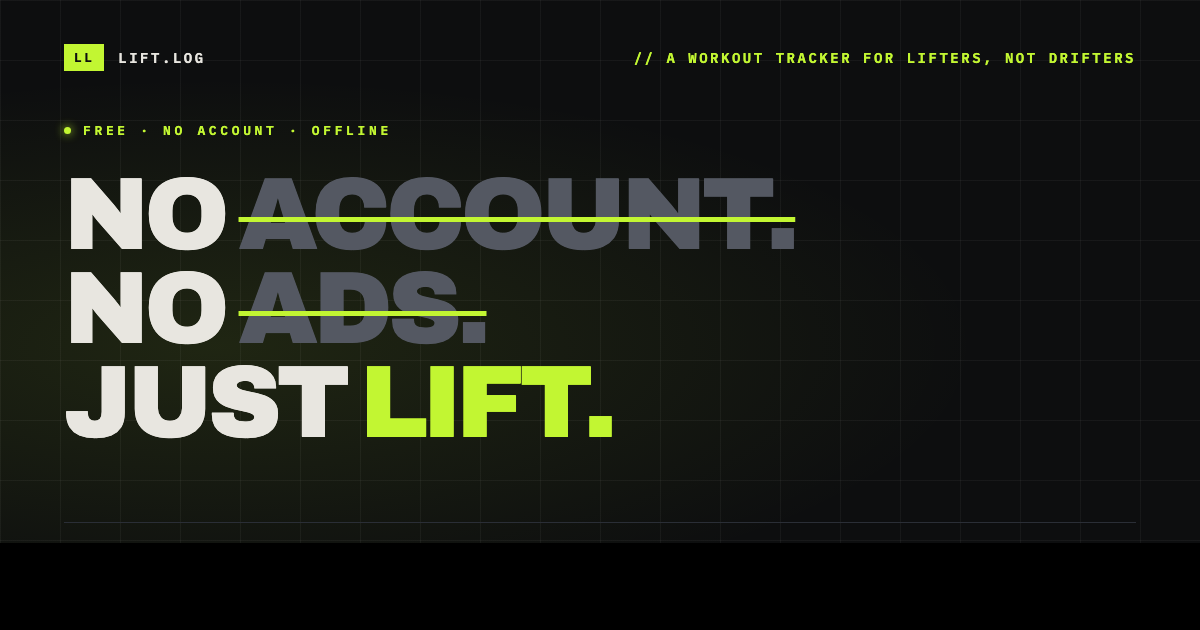
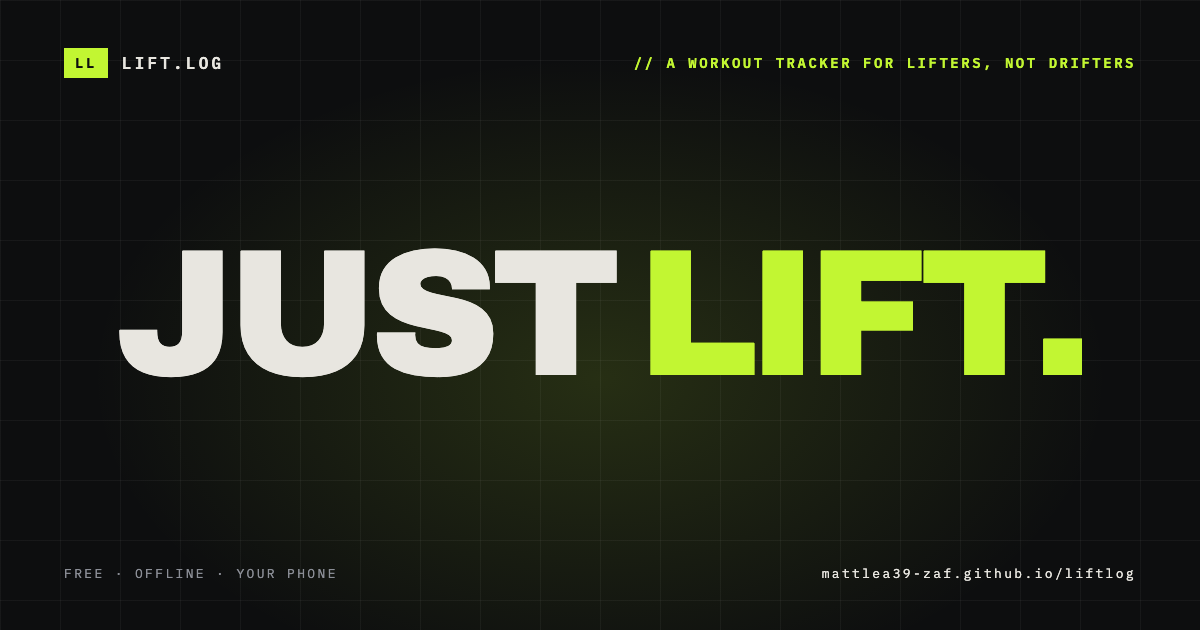
OG share card now matches the "Just lift." landing
Rewrote og.html: drops the NO ACCOUNT / NO ADS strike lines and the
chips row (referenced accounts/ads). Hero is now a single huge
"JUST LIFT." centered on a lime-glow grid, mirroring the landing.
Footer carries "FREE · OFFLINE · YOUR PHONE" + the URL.

Re-rendered og.png at 1200x630 via headless Chrome.

Updated og:title to "Lift.Log — Just lift." and og:description to
match. og:image and twitter:image now point to og.png?v=2 so
WhatsApp / Twitter / iMessage re-fetch the image instead of serving
their cached old card.

diff --git a/og.html b/og.html
@@ -12,7 +12,6 @@
     --line: #2a2e36;
     --text: #e8e6e0;
     --text-dim: #8b8e96;
-    --text-faint: #545862;
     --signal: #c2f632;
     --grid: rgba(232, 230, 224, 0.05);
   }
@@ -26,7 +25,7 @@
     background-image:
       linear-gradient(var(--grid) 1px, transparent 1px),
       linear-gradient(90deg, var(--grid) 1px, transparent 1px),
-      radial-gradient(ellipse at 18% 55%, rgba(194, 246, 50, 0.10), transparent 55%);
+      radial-gradient(ellipse at 50% 60%, rgba(194, 246, 50, 0.14), transparent 60%);
     background-size: 60px 60px, 60px 60px, 100% 100%;
     position: relative;
     overflow: hidden;
@@ -34,7 +33,7 @@
 
   .top {
     position: absolute;
-    top: 44px; left: 64px; right: 64px;
+    top: 48px; left: 64px; right: 64px;
     display: flex;
     justify-content: space-between;
     align-items: center;
@@ -46,83 +45,40 @@
   .badge {
     background: var(--signal);
     color: var(--bg);
-    padding: 5px 10px;
+    padding: 6px 11px;
     font-weight: 700;
-    font-size: 13px;
+    font-size: 14px;
     letter-spacing: 0.18em;
   }
-  .brand strong { color: var(--text); letter-spacing: 0.18em; font-weight: 600; }
+  .brand strong { color: var(--text); letter-spacing: 0.2em; font-weight: 600; font-size: 16px; }
   .top-right { color: var(--signal); font-weight: 600; }
-
-  .id {
-    position: absolute;
-    top: 122px; left: 64px;
-    font-size: 13px;
-    letter-spacing: 0.28em;
-    color: var(--signal);
-    font-weight: 600;
-    display: inline-flex;
-    align-items: center;
-    gap: 12px;
-  }
-  .id::before {
-    content: '';
-    width: 7px; height: 7px;
-    background: var(--signal);
-    border-radius: 50%;
-    box-shadow: 0 0 10px var(--signal);
-  }
 
   h1 {
     position: absolute;
-    top: 168px; left: 64px; right: 64px;
+    top: 50%;
+    left: 0; right: 0;
+    transform: translateY(-50%);
+    text-align: center;
     font-family: 'Archivo', sans-serif;
     font-weight: 900;
-    font-size: 102px;
-    line-height: 0.92;
+    font-size: 180px;
+    line-height: 0.9;
     letter-spacing: -0.045em;
     text-transform: uppercase;
   }
   h1 .signal { color: var(--signal); }
-  h1 .strike {
-    text-decoration: line-through;
-    text-decoration-color: var(--signal);
-    text-decoration-thickness: 5px;
-    color: var(--text-faint);
-  }
 
-  .chips {
+  .footer {
     position: absolute;
-    left: 64px; right: 64px; top: 522px;
+    bottom: 48px; left: 64px; right: 64px;
     display: flex;
-    gap: 32px;
+    justify-content: space-between;
     align-items: baseline;
-    border-top: 1px solid var(--line);
-    padding-top: 20px;
-    font-size: 13px;
-    letter-spacing: 0.15em;
-    text-transform: uppercase;
-  }
-  .chip { display: inline-flex; gap: 8px; align-items: baseline; }
-  .chip-key { color: var(--text-faint); font-size: 11px; }
-  .chip-val {
-    color: var(--signal);
-    font-family: 'Archivo', sans-serif;
-    font-weight: 800;
-    font-size: 16px;
-    letter-spacing: 0.04em;
-  }
-  .chip-val.strike {
-    text-decoration: line-through;
-    text-decoration-color: var(--text-faint);
-    color: var(--text-faint);
-  }
-  .spacer { flex: 1; }
-  .footer-url {
     color: var(--text-dim);
     font-size: 13px;
-    letter-spacing: 0.15em;
+    letter-spacing: 0.18em;
   }
+  .footer .url { color: var(--text); }
 </style>
 </head>
 <body>
@@ -135,21 +91,11 @@
     <div class="top-right">// A WORKOUT TRACKER FOR LIFTERS, NOT DRIFTERS</div>
   </div>
 
-  <div class="id">FREE · NO ACCOUNT · OFFLINE</div>
+  <h1>JUST <span class="signal">LIFT.</span></h1>
 
-  <h1>
-    NO <span class="strike">ACCOUNT.</span><br>
-    NO <span class="strike">ADS.</span><br>
-    JUST <span class="signal">LIFT.</span>
-  </h1>
-
-  <div class="chips">
-    <div class="chip"><span class="chip-key">PRICE</span><span class="chip-val">FREE</span></div>
-    <div class="chip"><span class="chip-key">ACCOUNTS</span><span class="chip-val strike">NONE</span></div>
-    <div class="chip"><span class="chip-key">ADS</span><span class="chip-val strike">ZERO</span></div>
-    <div class="chip"><span class="chip-key">OFFLINE</span><span class="chip-val">YES</span></div>
-    <div class="spacer"></div>
-    <div class="footer-url">mattlea39-zaf.github.io/liftlog</div>
+  <div class="footer">
+    <span>FREE · OFFLINE · YOUR PHONE</span>
+    <span class="url">mattlea39-zaf.github.io/liftlog</span>
   </div>
 </div>
 </body>

diff --git a/index.html b/index.html
@@ -16,16 +16,16 @@
 
 <meta property="og:type" content="website">
 <meta property="og:url" content="https://mattlea39-zaf.github.io/liftlog/">
-<meta property="og:title" content="Lift.Log — No account. No ads. Just lift.">
-<meta property="og:description" content="One-tap workout tracker. Free, offline, lives on your phone. No signup.">
-<meta property="og:image" content="https://mattlea39-zaf.github.io/liftlog/og.png">
+<meta property="og:title" content="Lift.Log — Just lift.">
+<meta property="og:description" content="A one-tap workout tracker. Free, offline, lives on your phone.">
+<meta property="og:image" content="https://mattlea39-zaf.github.io/liftlog/og.png?v=2">
 <meta property="og:image:width" content="1200">
 <meta property="og:image:height" content="630">
 
 <meta name="twitter:card" content="summary_large_image">
-<meta name="twitter:title" content="Lift.Log — No account. No ads. Just lift.">
-<meta name="twitter:description" content="One-tap workout tracker. Free, offline, lives on your phone. No signup.">
-<meta name="twitter:image" content="https://mattlea39-zaf.github.io/liftlog/og.png">
+<meta name="twitter:title" content="Lift.Log — Just lift.">
+<meta name="twitter:description" content="A one-tap workout tracker. Free, offline, lives on your phone.">
+<meta name="twitter:image" content="https://mattlea39-zaf.github.io/liftlog/og.png?v=2">
 
 <link rel="preconnect" href="https://fonts.googleapis.com">
 <link rel="preconnect" href="https://fonts.gstatic.com" crossorigin>